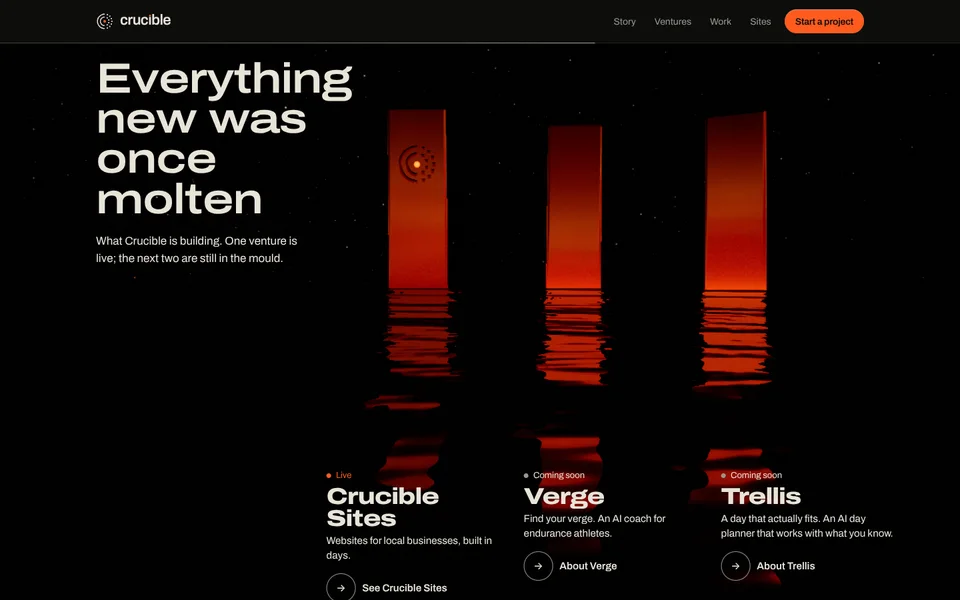
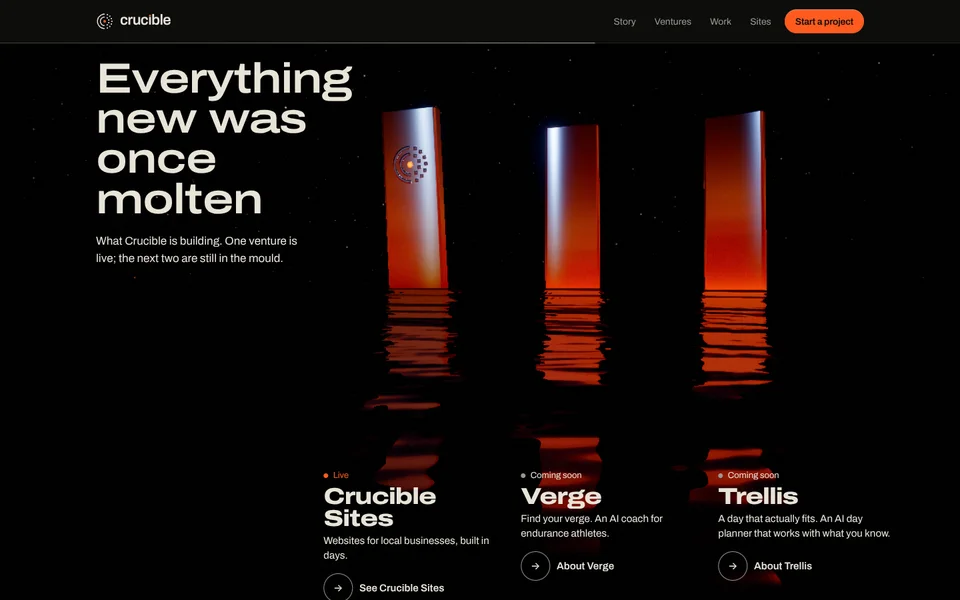
ventures: look's cold moon behind the shoulder at the place (anisotropic sheen and cold fillet lines over hot feet), faces aimed at it; the monoliths sink back into the sea as the camera climbs into the thesis
Claude-Session: https://claude.ai/code/session_01PrrUSiXXihBZvt7P76trxx

diff --git a/lib/world/ventures.ts b/lib/world/ventures.ts
@@ -98,8 +98,21 @@ function placeS() {
   return s0;
 }
 
+function moonDir(f: Frame): V3 {
+  if (!((f.ch['look.moon'] ?? 0) > 0)) return f.sun.dir;
+  const up = f.cam.up, fw = f.cam.f;
+  const h = V.norm(V.madd(fw, up, -V.dot(fw, up)));
+  const side = V.cross(up, h);
+  const az = ((f.ch['look.moonAz'] ?? 150) * Math.PI) / 180,
+    el = ((f.ch['look.moonEl'] ?? 14) * Math.PI) / 180;
+  return V.norm(V.madd(V.mul(V.add(V.mul(h, Math.cos(az)), V.mul(side, Math.sin(az))), Math.cos(el)), up, Math.sin(el)));
+}
+
 function frameUpdate(f: Frame, u: Uniforms) {
   const p = f.at('ventures');
+  // they sink back into the sea as the camera climbs away into the thesis (continuous, reversible)
+  const th = clamp(f.at('thesis') / 0.22);
+  const sinkK = 1 - th * th * (3 - 2 * th);
   const L = f.narrow ? LAYOUT.narrow : LAYOUT.wide;
   const s = SCALE;
   const H = 2 * MONO_E[1];
@@ -118,7 +131,7 @@ function frameUpdate(f: Frame, u: Uniforms) {
     [S.hover[i], S.hoverV[i]] = spring(S.hover[i], S.hoverV[i], S.hoverT[i], dt, 0.12);
     S.press[i] *= dt > 0 ? Math.exp(-dt / 0.35) : 1;
     // the camera is far from them anywhere else on the journey: risen only inside their own pin
-    const rise = riseAt(p, i);
+    const rise = riseAt(p, i) * sinkK;
     const liftTo = S.hover[i] * 0.22 - S.press[i] * 0.3;
     [S.lift[i], S.liftV[i]] = spring(S.lift[i], S.liftV[i], liftTo, dt, 0.16);
     const bob = Math.sin(t * 0.6 + i * 2.1) * 0.035 * rise;
@@ -134,7 +147,8 @@ function frameUpdate(f: Frame, u: Uniforms) {
     // the crown of the cast face carries a vertical highlight band (never the whole face lit, never all dark)
     const toCam = V.sub(f.cam.pos, foot);
     const hc = V.norm(V.madd(toCam, fup, -V.dot(toCam, fup)));
-    const sd = f.sun.dir;
+    // the light the faces are aimed at: look's moon at this place (the same direction look computes), else the sun
+    const sd = moonDir(f);
     const hs = V.madd(sd, fup, -V.dot(sd, fup));
     const hh = V.norm(V.add(hc, V.mul(V.norm(hs), clamp(V.dot(sd, fup) * 6 + 1, 0, 1))));
     const zx = V.dot(hh, x),
@@ -243,9 +257,11 @@ function bindDom(root: HTMLElement) {
 export function venturesKeys(R: number): Key[] {
   const deg = (a: number) => (a * Math.PI * R) / 180;
   const FAR = { sunU: 0, sunV: -deg(80), sunY: 1e6, sunR: 1.2e4 };
+  // look's cold moon, low behind the camera's shoulder (fades in from story-3 and out into the thesis)
+  const MOON = { 'look.moon': 1.2, 'look.moonAz': 150, 'look.moonEl': 12 };
   return [
-    { at: ['ventures', 0], s: deg(150), h: 3.2, yaw: 0, pitch: -3, fov: 50, ...FAR, ph: { fov: 64, pitch: 5 } },
-    { at: ['ventures', 1], s: deg(150) + 60, h: 3.4, yaw: 0, pitch: -3, fov: 50, ...FAR, ph: { fov: 64, pitch: 5 } },
+    { at: ['ventures', 0], s: deg(150), h: 3.2, yaw: 0, pitch: -3, fov: 50, ...FAR, ...MOON, ph: { fov: 64, pitch: 5 } },
+    { at: ['ventures', 1], s: deg(150) + 60, h: 3.4, yaw: 0, pitch: -3, fov: 50, ...FAR, ...MOON, ph: { fov: 64, pitch: 5 } },
   ];
 }
 

diff --git a/lab/ventures/still.html b/lab/ventures/still.html
@@ -30,6 +30,8 @@ struct Sea { vec3 p; vec3 up; vec3 q; vec3 eU; vec3 eV; vec2 w; float t; float f
 struct SeaMod { vec3 g; float heat; vec3 emit; float calm; float rough; vec4 aux; };
 vec3 look_sky(Ray r);
 vec3 look_sunLight(vec3 p) { return uSunE; }
+vec3 look_moonLight() { return vec3(0.0); }
+vec3 look_moonDir() { return vec3(0.0, 1.0, 0.0); }
 ${mono}
 vec3 look_sky(Ray r) { return ventures_skyA(r.rd, vec3(0.0, 1.0, 0.0), r.pa); }
 vec3 agx(vec3 c){ c = max(c, 0.0); vec3 x = c / (c + 0.6); return pow(x, vec3(1.15)); }
